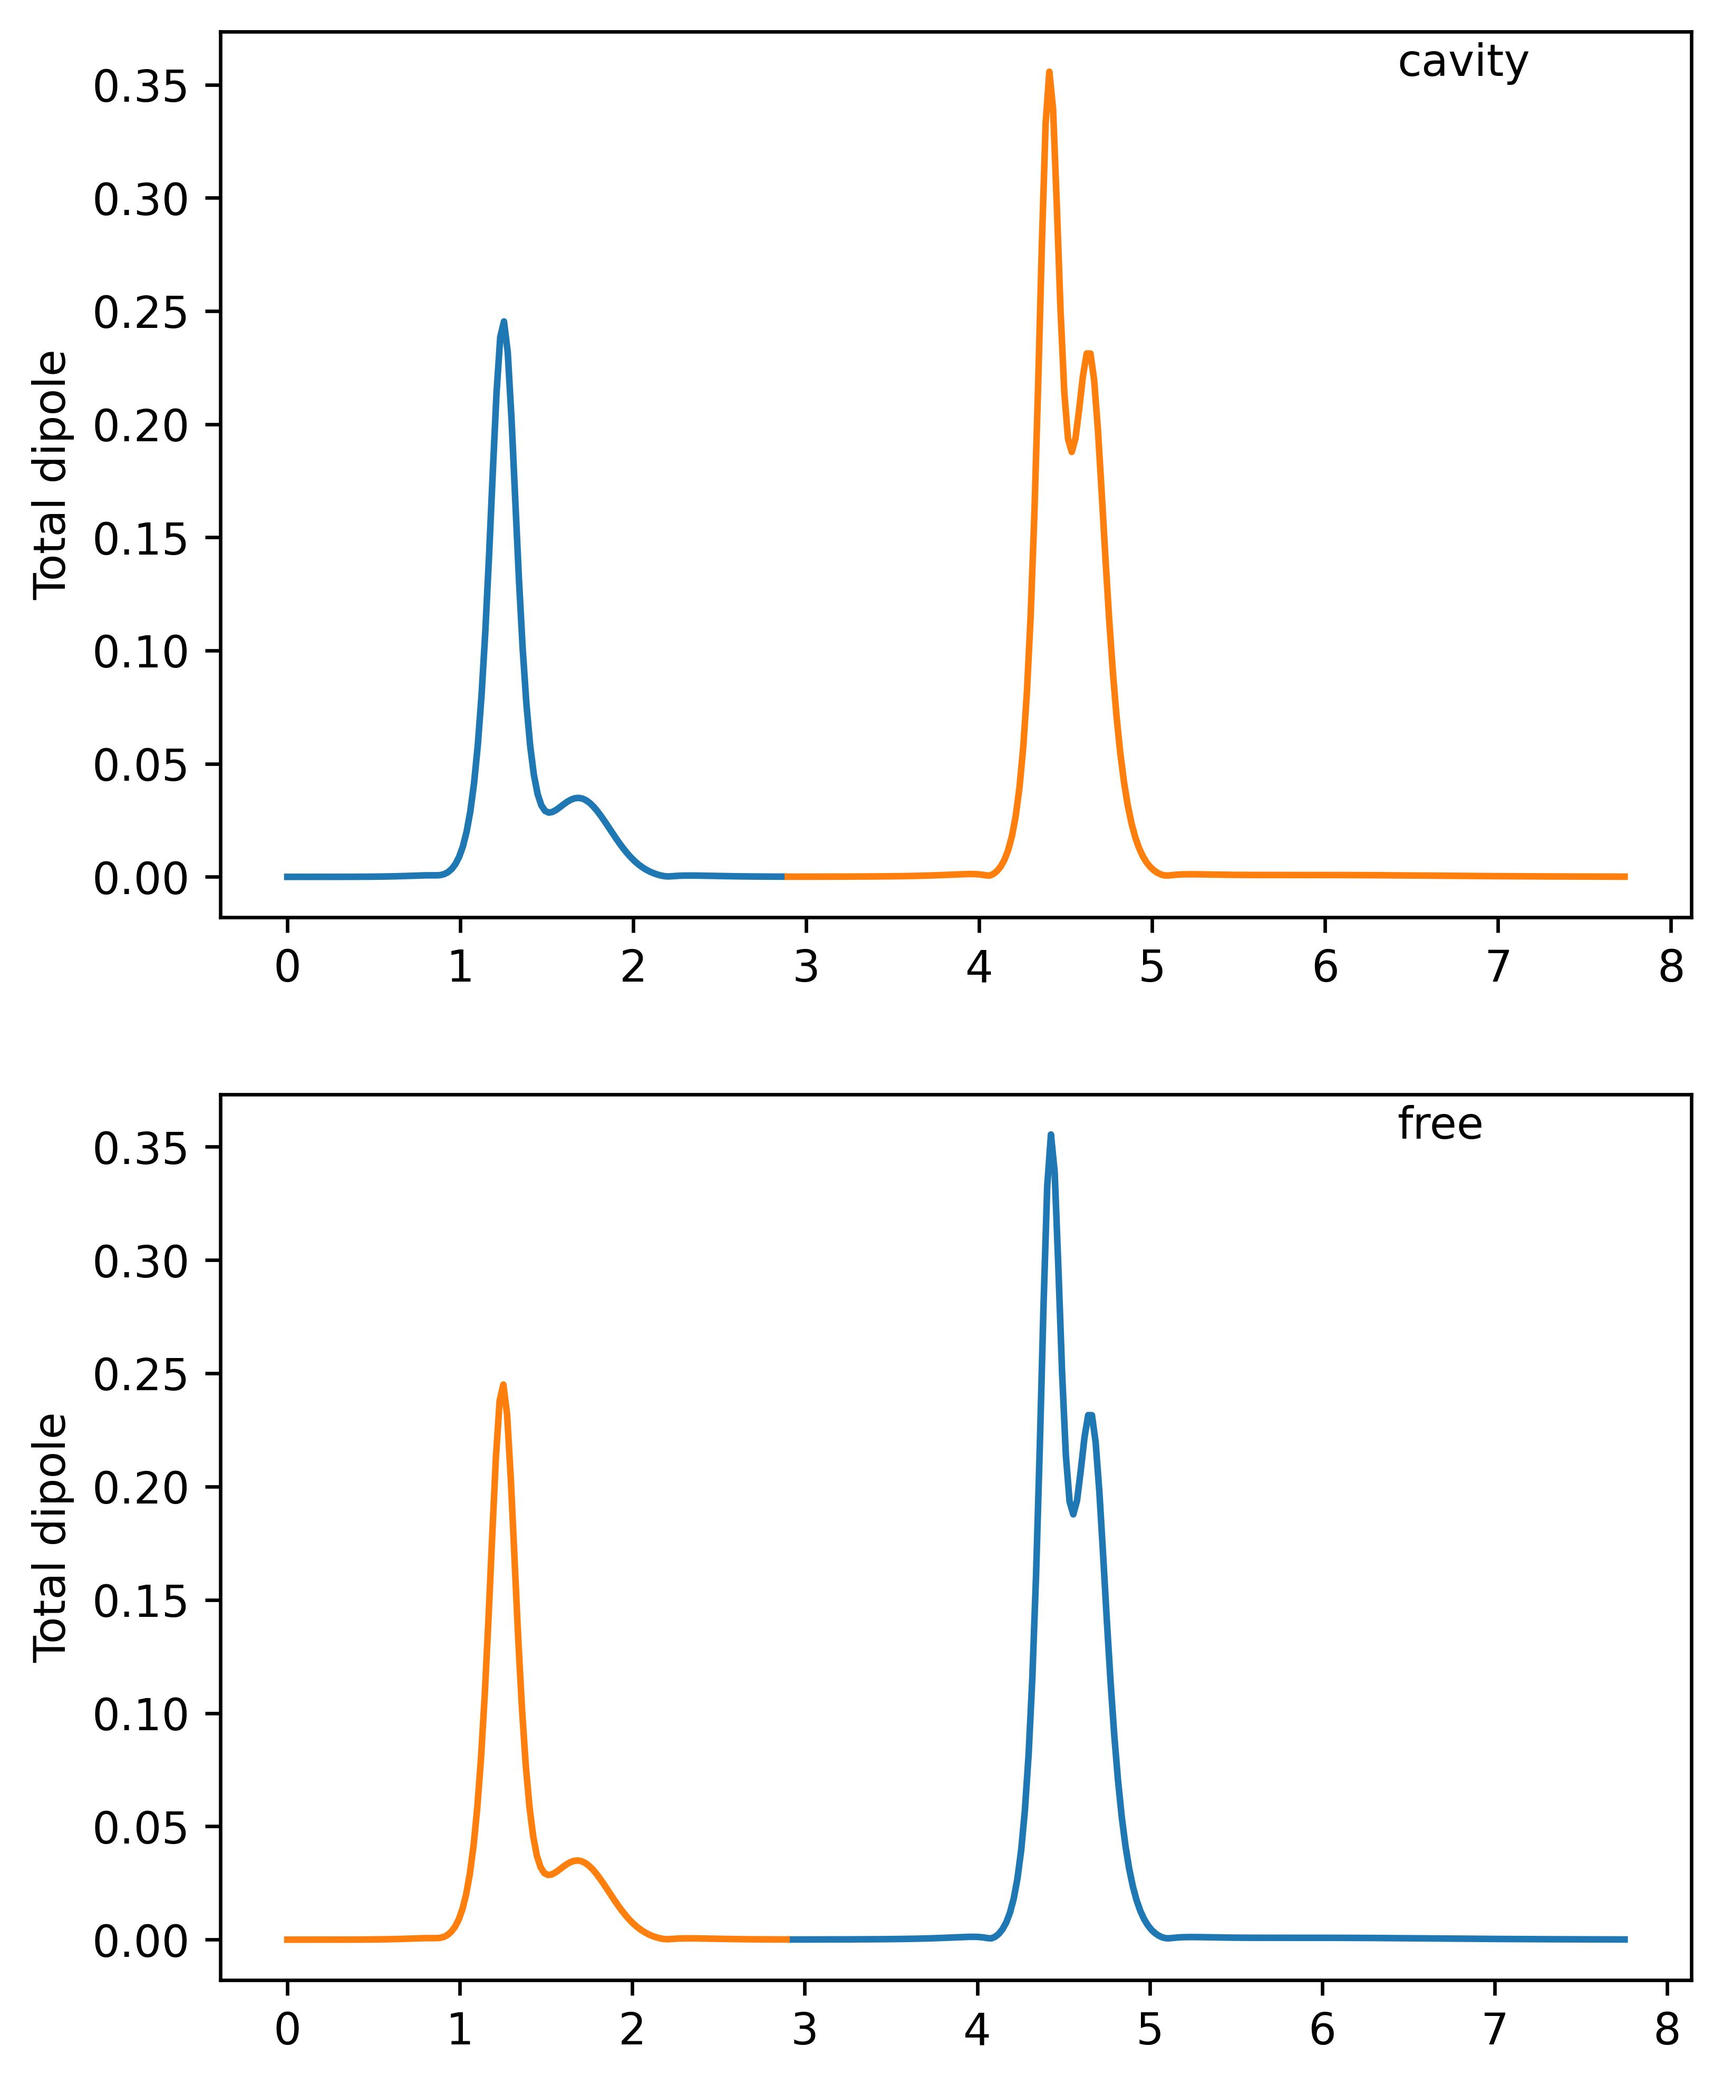
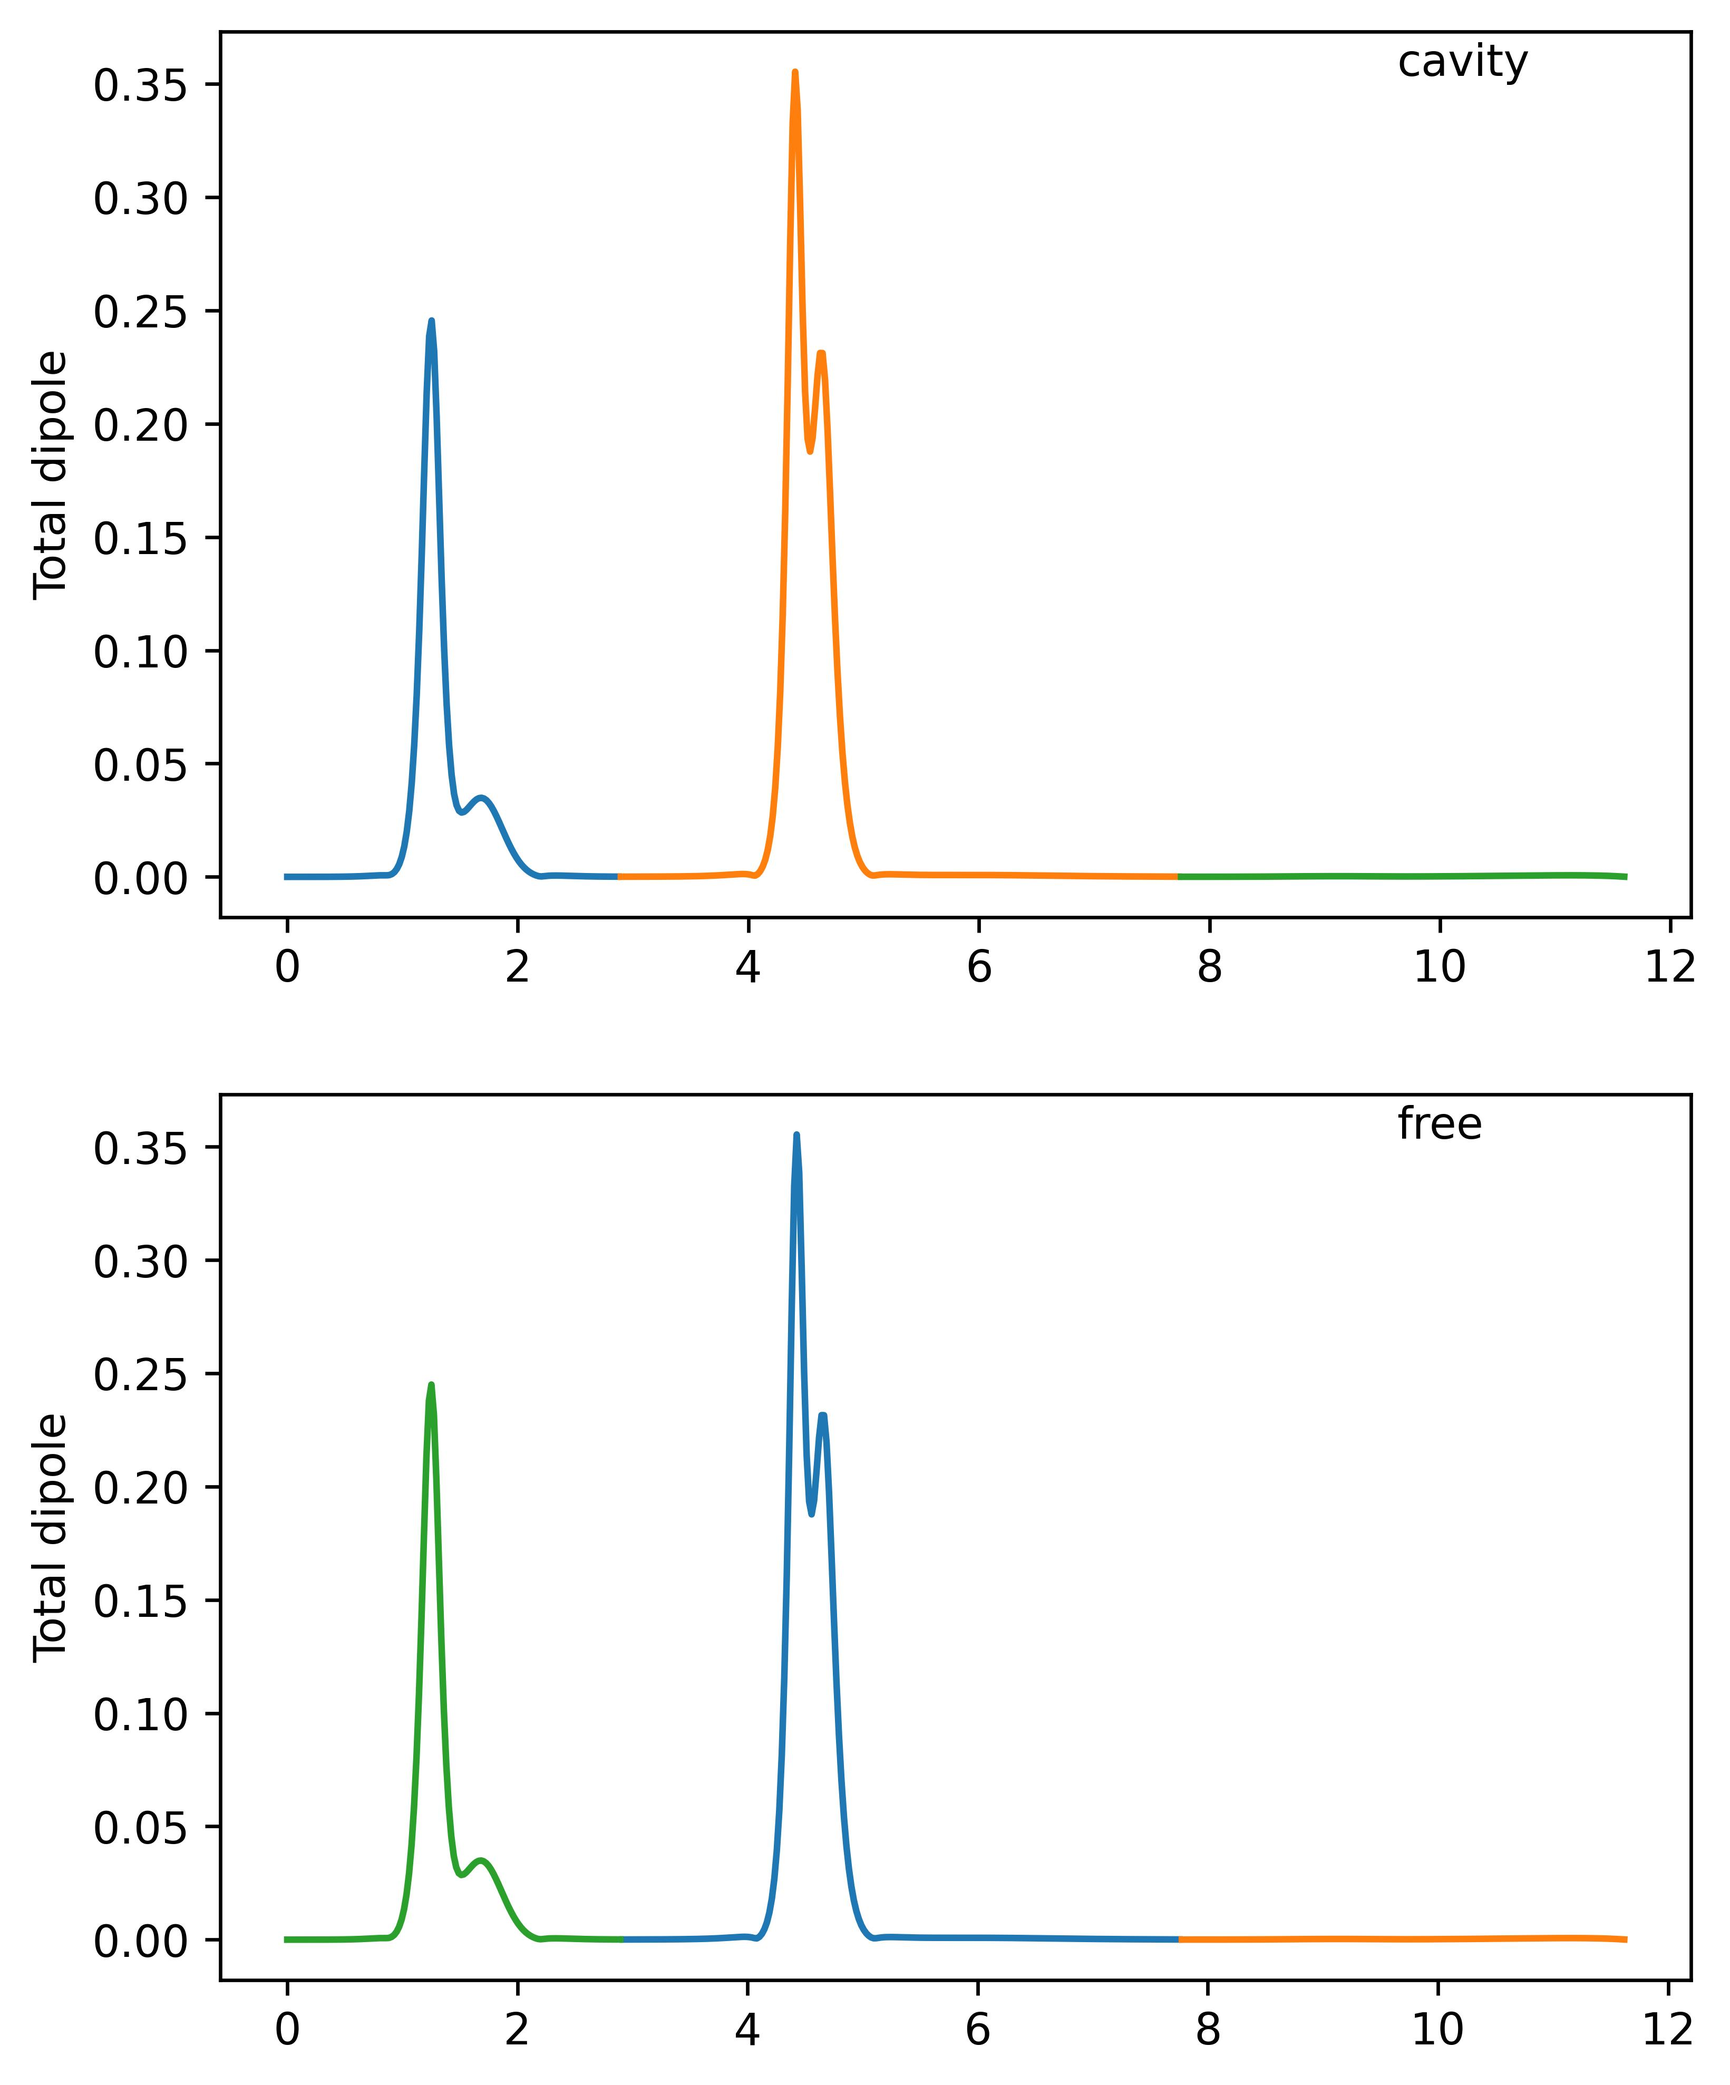
Jul 22nd 2024

diff --git a/src/plot_result.py b/src/plot_result.py
@@ -68,6 +68,7 @@ for j, KEYWORDS in enumerate(["cavity","free"]):
     xe_velocity_dist = []
 
     file_dict = categorizing_pickle(PICKLE_PATH, KEYWORDS = KEYWORDS)
+    print(file_dict)
 
     final_time = 0
     initial_times = 0
@@ -122,9 +123,6 @@ for j, KEYWORDS in enumerate(["cavity","free"]):
 
         omega = Afield.k_val / red.sigma
         omega /= 2*np.pi
-        if np.isclose(Afield.history["t"][0], 0):
-            initialfile = file
-            omega_profile, initial_rad_profile = profiling_rad(omega, rad_energy[0])
 
         if Afield.history["t"][-1] > final_time:
 
@@ -139,9 +137,8 @@ for j, KEYWORDS in enumerate(["cavity","free"]):
         ax4[0].plot(time, np.sum(rad_energy,axis=1))
         ax4[0].set_ylabel("Radiation energy (eV)")
 
-    print(initialfile)
     print(profilefile)
-    rad_profile = np.array(final_rad_profile) - np.array(initial_rad_profile)
+    rad_profile = np.array(final_rad_profile)
 
     """
     for i, o in enumerate(omega_profile):

diff --git a/src/simulation_monte_cavity.py b/src/simulation_monte_cavity.py
@@ -109,6 +109,7 @@ if exist_jar_flag:
     with open(final_pickle_path,"rb") as handle:
         result = pickle.load(handle)
 
+    print(info["coupling_strength"])
     # load the cavity field and the probe field
     old_cavity_field = result["cavity_field"]
 
@@ -156,7 +157,7 @@ elif not exist_jar_flag:
                 ##########################
                 ##########################
 
-    min_cavmode = 62; max_cavmode = 81
+    min_cavmode = args.min_cav_mode; max_cavmode = args.max_cav_mode
     possible_cavity_k = [0] + list(range(min_cavmode,max_cavmode)) 
     k_vector2 = np.array(
             EM_mode_generate(possible_cavity_k, vector_per_kval = 3, max_kval = max_cavmode),

diff --git a/src/config.py b/src/config.py
@@ -15,16 +15,16 @@ import utilities.reduced_parameter as red
 L = 3e7
 cell_width = 1e4
 
-h = 1e-2
+h = 1e-3
 
-num_cycles = 1
+num_cycles = 10
 
 K_temp = 292
 
 probe_kvector_int = np.array(
         EM_mode_generate3(min_n = 1, max_n = 300), dtype = np.float64)
 
-N_atom_pairs = 16
+N_atom_pairs = 256
 
 mu0 = red.mu0
 
